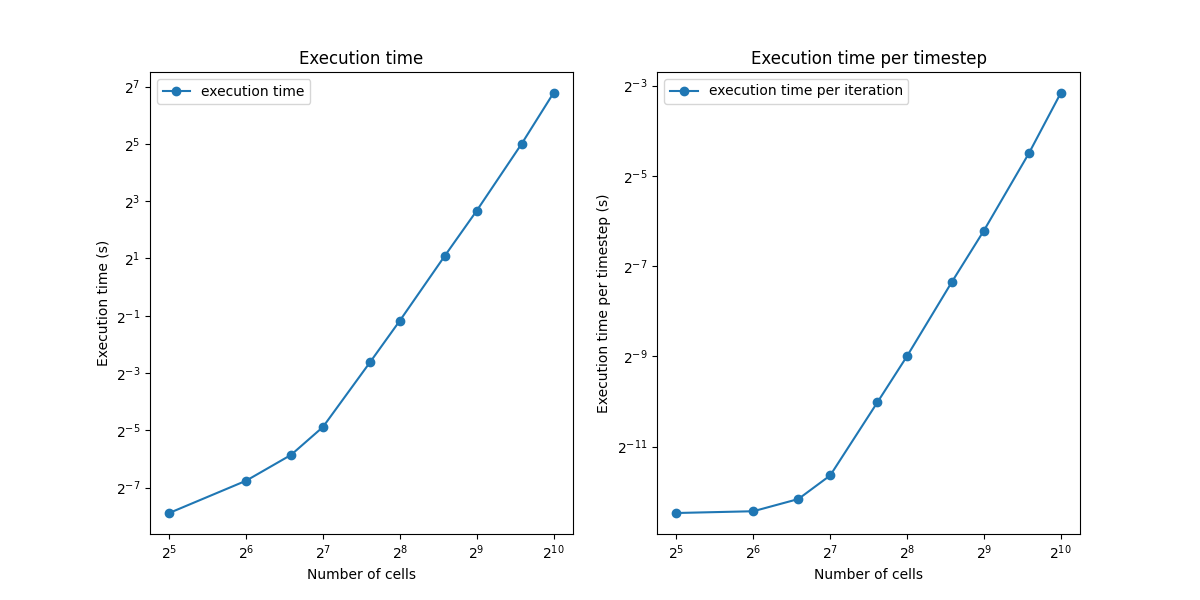
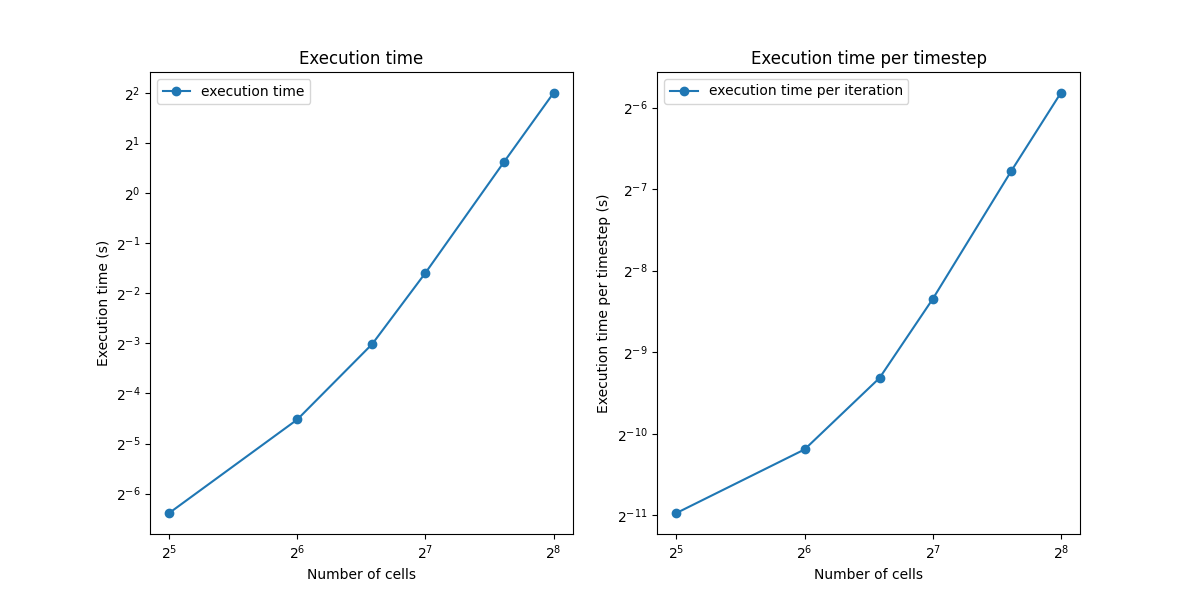
added border stuff

diff --git a/scaling_jax.py b/scaling_jax.py
@@ -3,10 +3,12 @@ Benchmark of the baseline implementation in JAX.
 (currently rather untidy, code, TODO: clean up)
 """
 
-import os
+# ==== GPU selection ====
+from autocvd import autocvd
+autocvd(num_gpus = 4)
+# =======================
 
 import jax
-# os.environ["CUDA_VISIBLE_DEVICES"] = "5,6,7,8" 
 
 from tinyfluids.jax_tinyfluids.sharding_helpers import pad, unpad
 from tinyfluids.jax_tinyfluids.time_integration import time_integration
@@ -38,10 +40,10 @@ def setup_ics(num_cells, num_injection_cells=2):
 
     return primitive_state, grid_spacing
 
-def measure_execution_time(primitive_state, grid_spacing, t_final, gamma, shard_mapped, padding = None, split = None):
+def measure_execution_time(primitive_state, grid_spacing, t_final, gamma, shard_mapped, padding = None, split = None, handle_boundaries = False):
     # execute once for compilation and warmup
 
-    final_state, num_iterations = time_integration(primitive_state, grid_spacing, t_final, gamma, shard_mapped, padding, split)
+    final_state, num_iterations = time_integration(primitive_state, grid_spacing, t_final, gamma, handle_boundaries, shard_mapped, padding, split)
     final_state.block_until_ready()
 
     if shard_mapped:
@@ -51,7 +53,7 @@ def measure_execution_time(primitive_state, grid_spacing, t_final, gamma, shard_
     
     # Create a function for timing
     def timed_execution():
-        final_state, _ = time_integration(primitive_state, grid_spacing, t_final, gamma, shard_mapped, padding, split)
+        final_state, _ = time_integration(primitive_state, grid_spacing, t_final, gamma, handle_boundaries, shard_mapped, padding, split)
         final_state.block_until_ready()  # Ensure execution completes before timing stops
         
     # Measure execution time
@@ -79,7 +81,7 @@ def plot_results(final_state):
     axs[1].set_title("Pressure")
     plt.savefig("figures/check_{:d}.png".format(num_cells))
 
-def make_scaling_plots(sharding = False, shard_mapped = False, num_cells_list = [32, 64, 128, 256, 512, 1024]):
+def make_scaling_plots(sharding = False, shard_mapped = False, num_cells_list = [32, 64, 128, 256, 512, 1024], handle_boundaries = False):
     
     t_final = 0.2
     gamma = 5/3
@@ -107,7 +109,7 @@ def make_scaling_plots(sharding = False, shard_mapped = False, num_cells_list = 
             padding = None
             split = None
         
-        execution_time, execution_time_per_iteration = measure_execution_time(primitive_state, grid_spacing, t_final, gamma, shard_mapped, padding, split)
+        execution_time, execution_time_per_iteration = measure_execution_time(primitive_state, grid_spacing, t_final, gamma, shard_mapped, padding, split, handle_boundaries)
         execution_times.append(execution_time)
         execution_times_per_iteration.append(execution_time_per_iteration)
 
@@ -170,13 +172,13 @@ def plot_scaling_results(plot_sharded = True, plot_sharded_mapped = True):
     # set figure title "scaling for a 3D shock test"
     fig.suptitle("Scaling for a 3D shock test")
 
-    axs[0].plot(data_unsharded["num_cells_list"], data_unsharded["execution_times"], 'o-', label = "unsharded")
+    axs[0].plot(data_unsharded["num_cells_list"], data_unsharded["execution_times"], 'o-', label = "unsharded", color = "blue")
 
     if plot_sharded:
-        axs[0].plot(data_sharded["num_cells_list"], data_sharded["execution_times"], 'o-', label = "sharded (4 GPUs)")
+        axs[0].plot(data_sharded["num_cells_list"], data_sharded["execution_times"], 'o-', label = "sharded (4 GPUs)", color = "orange")
 
     if plot_sharded_mapped:
-        axs[0].plot(data_sharded_mapped["num_cells_list"], data_sharded_mapped["execution_times"], 'o-', label = "sharded (4 GPUs, shard mapped)")
+        axs[0].plot(data_sharded_mapped["num_cells_list"], data_sharded_mapped["execution_times"], 'o-', label = "sharded (4 GPUs, shard mapped)", color = "green")
     # set x and y log scale
     axs[0].set_xscale("log", base = 2)
     axs[0].set_yscale("log", base = 2)
@@ -185,13 +187,13 @@ def plot_scaling_results(plot_sharded = True, plot_sharded_mapped = True):
     axs[0].set_title("Execution time")
     axs[0].set_xlabel("Number of cells per dimension")
     axs[0].set_ylabel("Execution time in s")
-    axs[1].plot(data_unsharded["num_cells_list"], data_unsharded["execution_times_per_iteration"], 'o-', label = "unsharded")
+    axs[1].plot(data_unsharded["num_cells_list"], data_unsharded["execution_times_per_iteration"], 'o-', label = "unsharded", color = "blue")
 
     if plot_sharded:
-        axs[1].plot(data_sharded["num_cells_list"], data_sharded["execution_times_per_iteration"], 'o-', label = "sharded (4 GPUs)")
+        axs[1].plot(data_sharded["num_cells_list"], data_sharded["execution_times_per_iteration"], 'o-', label = "sharded (4 GPUs)", color = "orange")
 
     if plot_sharded_mapped:
-        axs[1].plot(data_sharded_mapped["num_cells_list"], data_sharded_mapped["execution_times_per_iteration"], 'o-', label = "sharded (4 GPUs, shard mapped)")
+        axs[1].plot(data_sharded_mapped["num_cells_list"], data_sharded_mapped["execution_times_per_iteration"], 'o-', label = "sharded (4 GPUs, shard mapped)", color = "green")
     # set x and y log scale
     axs[1].set_xscale("log", base = 2)
     axs[1].set_yscale("log", base = 2)
@@ -215,13 +217,13 @@ def plot_scaling_results(plot_sharded = True, plot_sharded_mapped = True):
         speedup_mapped = data_unsharded["execution_times"][0:common_length] / data_sharded_mapped["execution_times"][0:common_length]
 
     if plot_sharded:
-        axs[2].plot(data_unsharded["num_cells_list"][0:common_length], speedup, 'o-', label = "speedup")
+        axs[2].plot(data_unsharded["num_cells_list"][0:common_length], speedup, 'o-', label = "speedup sharded (4 GPUs)", color = "orange")
 
     if plot_sharded_mapped:
-        axs[2].plot(data_unsharded["num_cells_list"][0:common_length], speedup_mapped, 'o-', label = "speedup (shard mapped)")
+        axs[2].plot(data_unsharded["num_cells_list"][0:common_length], speedup_mapped, 'o-', label = "speedup (shard mapped)", color = "green")
     
     # theoretical speedup is 4
-    axs[2].plot(data_unsharded["num_cells_list"][0:common_length], jnp.ones_like(data_unsharded["num_cells_list"][0:common_length]) * 4, '--', label = "theoretical speedup")
+    axs[2].plot(data_unsharded["num_cells_list"][0:common_length], jnp.ones_like(data_unsharded["num_cells_list"][0:common_length]) * 4, '--', label = "theoretical speedup", color = "black")
     axs[2].legend()
     axs[2].set_title("Speedup")
     axs[2].set_xlabel("Number of cells per dimension")
@@ -231,9 +233,10 @@ def plot_scaling_results(plot_sharded = True, plot_sharded_mapped = True):
     plt.savefig("figures/scaling_results.png")
 
 
+handle_boundaries = True
 
-make_scaling_plots(sharding = False, shard_mapped = False, num_cells_list = [32, 64, 96, 128, 196, 256, 384, 512, 768])
-make_scaling_plots(sharding = True, shard_mapped = False, num_cells_list  = [32, 64, 96, 128, 196, 256, 384, 512, 768, 1024])
-make_scaling_plots(sharding = True, shard_mapped = True, num_cells_list   = [32, 64, 96, 128, 196, 256, 384, 512, 768, 1024])
+make_scaling_plots(sharding = False, shard_mapped = False, num_cells_list = [32, 64, 96, 128, 196, 256], handle_boundaries = handle_boundaries)
+make_scaling_plots(sharding = True, shard_mapped = False, num_cells_list  = [32, 64, 96, 128, 196, 256], handle_boundaries = handle_boundaries)
+# make_scaling_plots(sharding = True, shard_mapped = True, num_cells_list  = [32, 64, 96, 128, 196, 256], handle_boundaries = handle_boundaries)
 
-plot_scaling_results(plot_sharded = True, plot_sharded_mapped = True)
+plot_scaling_results(plot_sharded = True, plot_sharded_mapped = False)

diff --git a/tinyfluids/jax_tinyfluids/fluid.py b/tinyfluids/jax_tinyfluids/fluid.py
@@ -308,6 +308,115 @@ def _hll_solver(
 # ==================== ↑ Flux Calculation ↑ ===================
 # -------------------------------------------------------------
 
+
+
+# -------------------------------------------------------------
+# ==================== ↓ Border Handling ↓ ====================
+# -------------------------------------------------------------
+
+@jaxtyped(typechecker=typechecker)
+@partial(jax.jit, static_argnames=['axis', 'set_index', 'get_index'])
+def _set_along_axis(
+    primitive_state: STATE_TYPE,
+    axis: int,
+    set_index: int,
+    get_index: int
+) -> STATE_TYPE:
+
+    s_set = (slice(None),) * axis + (set_index,) + (slice(None),)*(primitive_state.ndim - axis - 1)
+    s_get = (slice(None),) * axis + (get_index,) + (slice(None),)*(primitive_state.ndim - axis - 1)
+
+    primitive_state = primitive_state.at[s_set].set(primitive_state[s_get])
+
+    return primitive_state
+
+@jaxtyped(typechecker=typechecker)
+@partial(jax.jit, static_argnames=['axis', 'num_ghost_cells'])
+def _open_right_boundary(
+    primitive_state: STATE_TYPE,
+    num_ghost_cells: int,
+    axis: int
+) -> STATE_TYPE:
+    """Apply the open boundary condition to the right boundary.
+    
+    Args:
+        primitive_state: The primitive state array.
+
+    Returns:
+        The primitive state array with the open boundary condition applied.
+    """
+
+    get_index = -num_ghost_cells - 1
+    
+    for set_index in range(-num_ghost_cells, 0):
+        primitive_state = _set_along_axis(primitive_state, axis, set_index, get_index)
+
+    return primitive_state
+
+@jaxtyped(typechecker=typechecker)
+@partial(jax.jit, static_argnames=['axis', 'num_ghost_cells'])
+def _open_left_boundary(
+    primitive_state: STATE_TYPE,
+    num_ghost_cells: int,
+    axis: int
+) -> STATE_TYPE:
+    """Apply the open boundary condition to the left boundary.
+
+    Args:
+        primitive_state: The primitive state array.
+
+    Returns:
+        The primitive state array with
+        the open boundary condition applied.
+
+    """
+
+    get_index = num_ghost_cells
+
+    for set_index in range(num_ghost_cells):
+        primitive_state = _set_along_axis(primitive_state, axis, set_index, get_index)
+
+    return primitive_state
+
+
+@jaxtyped(typechecker=typechecker)
+@partial(jax.jit, static_argnames=['num_ghost_cells'])
+def _open_boundaries(
+    primitive_state: STATE_TYPE,
+    num_ghost_cells: int
+) -> STATE_TYPE:
+    """Apply the open boundary condition to all boundaries.
+
+    Args:
+        primitive_state: The primitive state array.
+
+    Returns:
+        The primitive state array with the open boundary condition applied.
+    
+    """
+
+    # open left boundary
+    primitive_state = _open_left_boundary(primitive_state, num_ghost_cells, X_AXIS)
+    # open right boundary
+    primitive_state = _open_right_boundary(primitive_state, num_ghost_cells, X_AXIS)
+
+    # open left boundary
+    primitive_state = _open_left_boundary(primitive_state, num_ghost_cells, Y_AXIS)
+    # open right boundary
+    primitive_state = _open_right_boundary(primitive_state, num_ghost_cells, Y_AXIS)
+
+    # open left boundary
+    primitive_state = _open_left_boundary(primitive_state, num_ghost_cells, Z_AXIS)
+    # open right boundary
+    primitive_state = _open_right_boundary(primitive_state, num_ghost_cells, Z_AXIS)
+
+    return primitive_state
+
+# -------------------------------------------------------------
+# ==================== ↑ Border Handling ↑ ====================
+# -------------------------------------------------------------
+
+
 # -------------------------------------------------------------
 # ==================== ↓ Single Time Step ↓ ===================
 # -------------------------------------------------------------
@@ -449,13 +558,19 @@ def _evolve_state_along_axis(
 
 
 @jaxtyped(typechecker=typechecker)
-@jax.jit
+@partial(jax.jit, static_argnames=['handle_boundaries'])
 def _evolve_state(
     primitive_state: STATE_TYPE,
     grid_spacing: Union[float, Float[Array, ""]],
     dt: Union[float, Float[Array, ""]],
     gamma: Union[float, Float[Array, ""]],
+    handle_boundaries: bool = False
 ) -> STATE_TYPE:
+    
+    # open boundaries
+    if handle_boundaries:
+        primitive_state = _open_boundaries(primitive_state, 1)
+
     primitive_state = _evolve_state_along_axis(primitive_state, grid_spacing, dt, gamma, X_AXIS)
     primitive_state = _evolve_state_along_axis(primitive_state, grid_spacing, dt, gamma, Y_AXIS)
     primitive_state = _evolve_state_along_axis(primitive_state, grid_spacing, dt, gamma, Z_AXIS)

diff --git a/tinyfluids/jax_tinyfluids/time_integration.py b/tinyfluids/jax_tinyfluids/time_integration.py
@@ -33,12 +33,13 @@ from tinyfluids.jax_tinyfluids.fluid import STATE_TYPE, _cfl_time_step, _evolve_
 # -------------------------------------------------------------
 
 @jaxtyped(typechecker=typechecker)
-@partial(jax.jit, static_argnames=["shard_mapped", "padding", "split"])
+@partial(jax.jit, static_argnames=["handle_boundaries", "shard_mapped", "padding", "split"])
 def _time_integration_inner(
     primitive_state: STATE_TYPE,
     grid_spacing: Union[float, Float[Array, ""]],
     t_final: Union[float, Float[Array, ""]],
     gamma: Union[float, Float[Array, ""]],
+    handle_boundaries: bool,
     shard_mapped: bool,
     padding: Union[NoneType, Tuple[Tuple[int, int], ...]] = None,
     split: Union[NoneType, Tuple[int, ...]] = None,
@@ -74,7 +75,7 @@ def _time_integration_inner(
             # see https://github.com/jax-ml/jax/issues/27665
             dt = jax.lax.pmin(dt, axis_name=(1.0, 2.0))
 
-        primitive_state = _evolve_state(primitive_state, grid_spacing, dt, gamma)
+        primitive_state = _evolve_state(primitive_state, grid_spacing, dt, gamma, handle_boundaries)
 
         t += dt
         num_iterations += 1
@@ -95,6 +96,7 @@ def time_integration(
     grid_spacing: Union[float, Float[Array, ""]],
     t_final: Union[float, Float[Array, ""]],
     gamma: Union[float, Float[Array, ""]],
+    handle_boundaries: bool,
     shard_mapped: bool,
     padding: Union[NoneType, Tuple[Tuple[int, int], ...]] = None,
     split: Union[NoneType, Tuple[int, ...]] = None,
@@ -117,13 +119,13 @@ def time_integration(
         sharded_time_integration = shard_map(
             _time_integration_inner,
             mesh = primitive_state.sharding.mesh,
-            in_specs = (primitive_state.sharding.spec, None, None, None, None, None, None),
+            in_specs = (primitive_state.sharding.spec, None, None, None, None, None, None, None),
             out_specs = (primitive_state.sharding.spec, P()),
             check_rep = False
         )
-        return sharded_time_integration(primitive_state, grid_spacing, t_final, gamma, True, padding, split)
+        return sharded_time_integration(primitive_state, grid_spacing, t_final, gamma, False, True, padding, split)
     else:
-        return _time_integration_inner(primitive_state, grid_spacing, t_final, gamma, False)
+        return _time_integration_inner(primitive_state, grid_spacing, t_final, gamma, handle_boundaries, False)
 
 # -------------------------------------------------------------
 # ==================== ↑ Time Integration ↑ ===================
